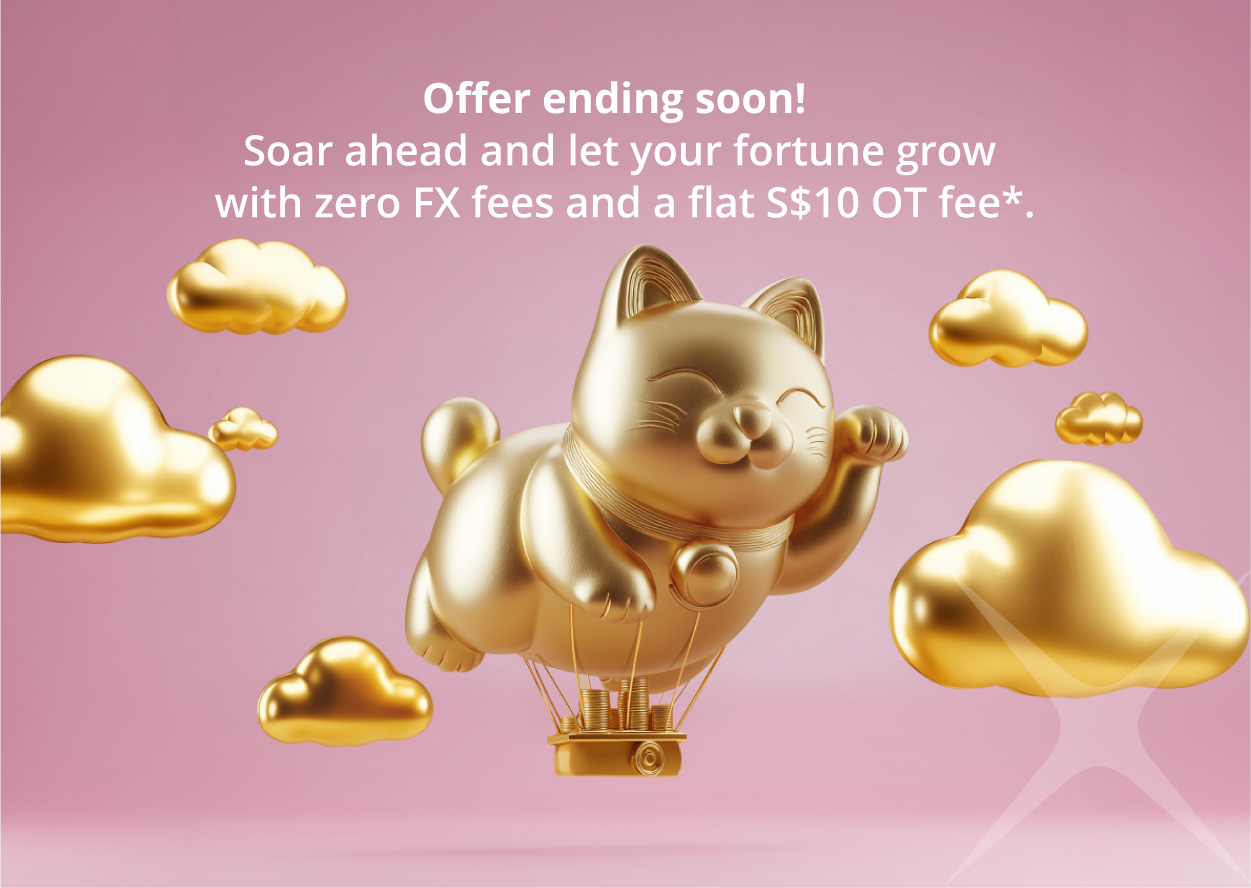
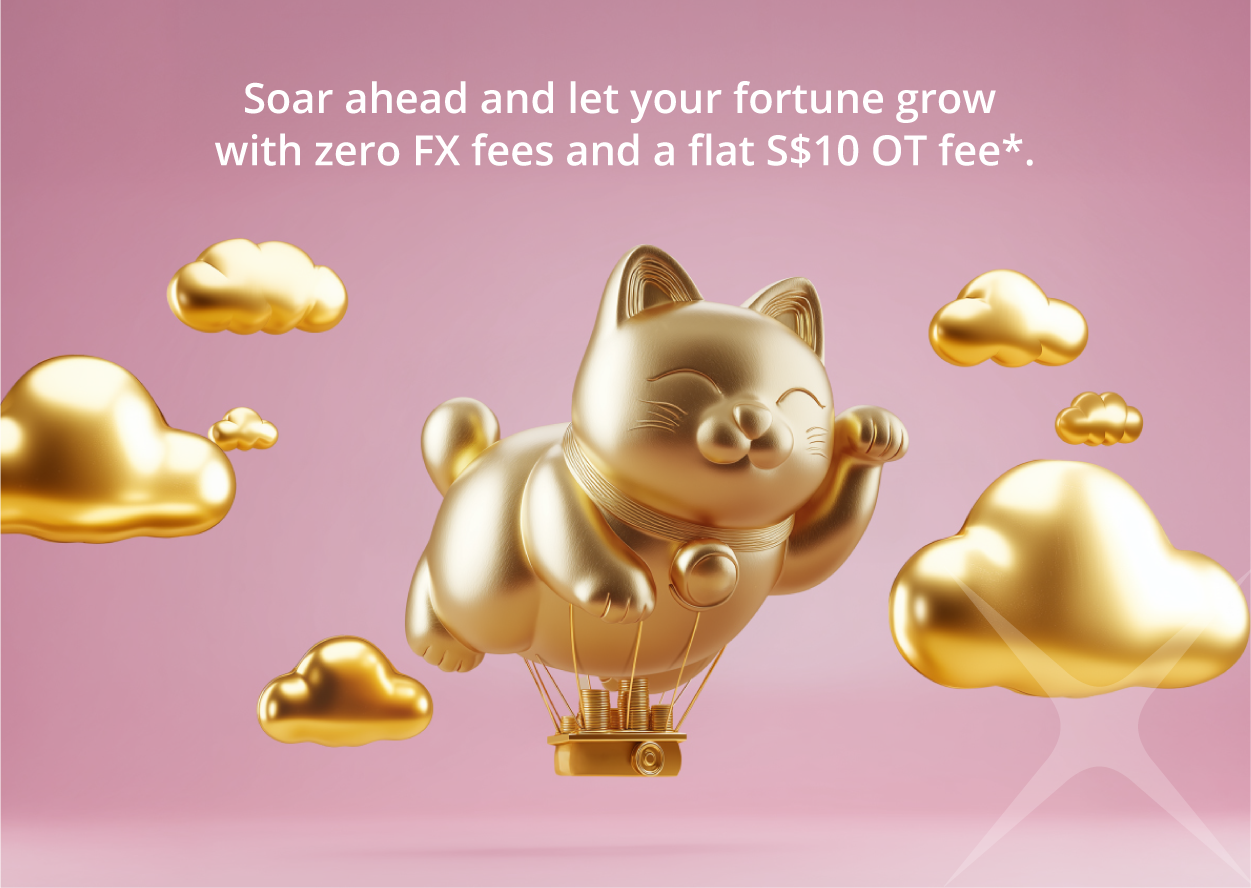
fix: extended deadline

Changed region(s): [[0.1559, 0.0912, 0.8106, 0.2432]]

diff --git a/DBS/DSA/lastcall/Sept2025-FortuneCat/index.html b/DBS/DSA/lastcall/Sept2025-FortuneCat/index.html
@@ -187,7 +187,7 @@
                 </table>
                 Don't miss out – this opportunity is fleeting! Optimise your currency transactions with DBS FX and Payment services, enjoy zero FX fees and a flat S$10 OT fee on any single OT transaction involving FX.
                 <br><br>
-                Offer ends <strong>30 September 2025</strong> – act now!
+                Due to overwhelming demand, this offer will be extended until <strong>31 December 2025.</strong>
 
             </td>
         </tr>
